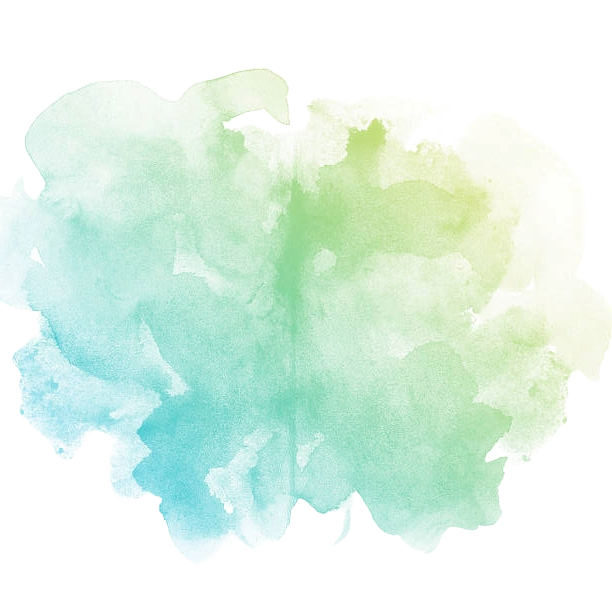
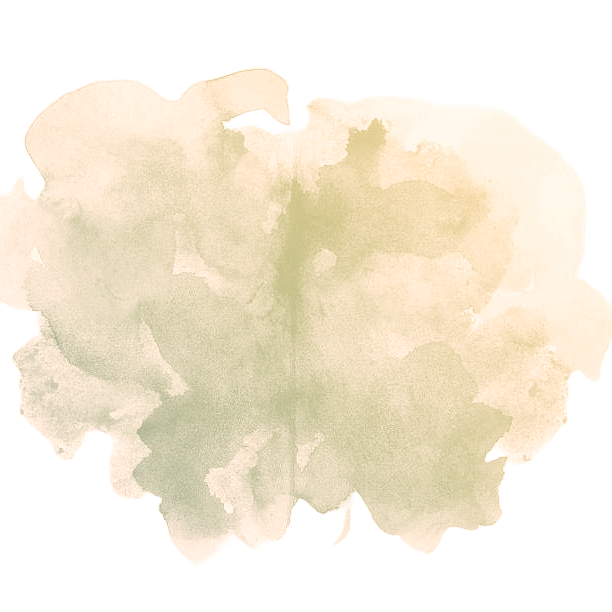
img cleanup

diff --git a/src/AbousUs/AboutUs.tsx b/src/AbousUs/AboutUs.tsx
@@ -10,7 +10,7 @@ export const AboutUs = () => {
       {Object.values(ABOUT_US_CONSTANTS).map((section, _index) => (
         <AboutUsCard>
           <div
-            className={`flex flex-col md:flex-row ${_index % 2 !== 0 ? "md:flex-row-reverse" : ""} items-center`}
+            className={`flex flex-col gap-x-8 md:flex-row ${_index % 2 !== 0 ? "md:flex-row-reverse" : ""} items-center`}
           >
             <AboutUsImg img={section.img} />
             <AboutUsText title={section.title} content={section.content} />
